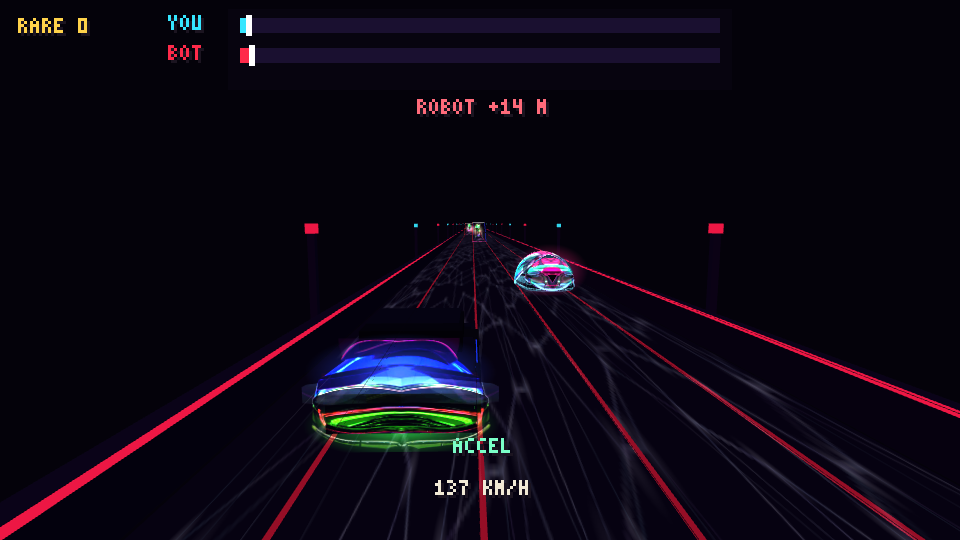
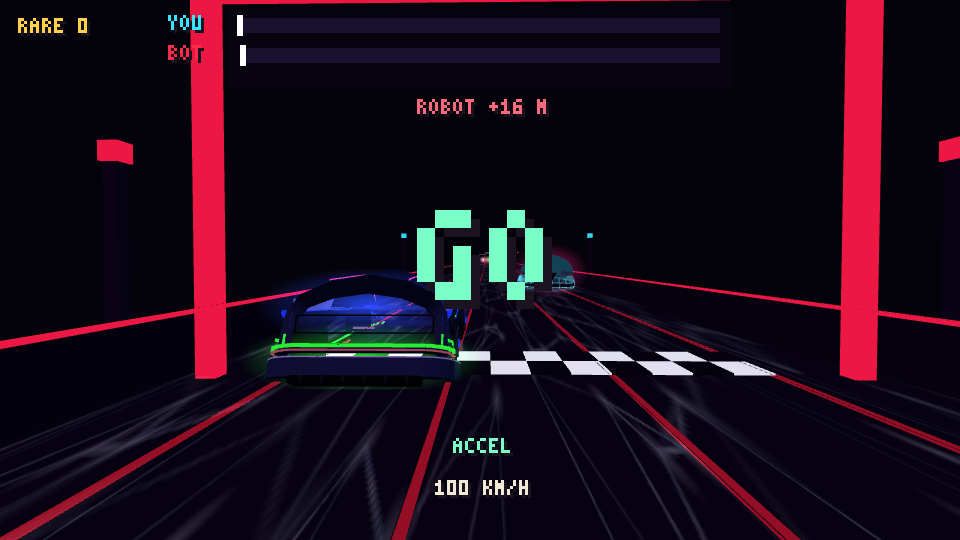
Race: faster cars, accelerator fix on phones, Porsche-like curved body for the player's car
- Race speeds 43 / 58 m/s (spirals scaled), accelerator +5 m/s, balance checked
  with tests/race_sim.js; the touch accelerator's outer edge (outside the
  screen canvas) now works in the race too.
- The player's race car: one smooth lofted shell (low nose, wings over the
  wheels, bonnet aligned with the blue line, rear haunches, one arc from
  flank to roof), wheels standing on the ground, side glass from the back
  picture with a slanted rear edge, matte black flank band, metal band under
  the cabin, pink roof moulding, the back picture tilted and wrapped onto
  the roof and corners, a wrap-around bumper, diffuser, boot lid, and a
  bulged wrap-around lamp bar whose red line lights up when braking.

diff --git a/src3d/car3d.js b/src3d/car3d.js
@@ -2,6 +2,11 @@
 // under the nose and a blue one under the tail, on a near-black ground). Never put on the road as a picture: built from boxes and cylinders with the shared Kit materials. The car faces -z (the way the runner runs),
 // 4 m long, 1.7 m wide, 1.35 m high, its wheels on y = 0. `Car3D.build(opts)` returns a Group; opts.body / opts.glowFront / opts.glowRear recolour it (the opponent car wears other colours).
 const Car3D = {
+  WR: 0.42,                              // the race car's wheel radius: the wheels stand ON the ground (Kit's cylinders are placed by their foot: the wheels used to float 17 cm up)
+  TAIL_TILT: 25 * Math.PI / 180,
+  TAIL_ROUND: 0.2,
+  TAIL_STRETCH: 1.16,
+  TAIL_SQUASH: 0.97,                       // and to 90 % of its height, so its rounded top meets the Porsche-like roof arc                    // the back picture is stretched this much in width (only), to cover the sides of the body                      // how much the end of the body draws in (a quarter circle over the last 10 %): the rounded edges onto the tail          // the back of the race car leans forward this much (its picture and the body behind it)
   parts(o) {
     o = Object.assign({ body: '#1c2468', roof: '#151c58', glass: '#0b1030', line: '#2a3cff', arch: '#35e6ff', head: '#ffe21a', tail: '#ff2a3a', glowFront: '#ff1a3a', glowRear: '#2a3cff' }, o || {});
     const p = [], W = 0.85, wheelZ = [-1.3, 1.25];
@@ -57,23 +62,108 @@ const Car3D = {
   // a wide low body in near-black blue, a blue band along the flanks at the height of the rear window, a green line low down continuing the light bar, dark wheels with a faint rim and a magenta glow underneath.
   // `backW` is how wide the body is (the picture is hung wider than that, because its own glow spreads beyond the car).
   fromBack(o) {
-    o = Object.assign({ body: '#090a16', dark: '#05060d', blue: '#1636ff', green: '#2bff3a', rim: '#1b2440' }, o || {});
-    const p = [], W = 2.3, L = 4.6, zT = 2.0, zN = zT - L;
-    p.push(Kit.box(W, 0.62, L, 0, 0.3, zT - L / 2, o.body));                                                                      // the tub
-    p.push(Kit.box(W - 0.12, 0.34, L * 0.42, 0, 0.9, zT - 1.1, o.body));                                                          // the shoulders behind the cabin
-    p.push(Kit.box(W - 0.5, 0.42, L * 0.36, 0, 1.2, zT - 1.9, o.dark));                                                           // the cabin
-    p.push(Kit.box(W - 0.62, 0.1, L * 0.3, 0, 1.6, zT - 2.0, o.body));                                                            // the roof
-    p.push(Kit.box(W - 0.2, 0.26, 1.0, 0, 0.72, zN + 0.5, o.body, { rx: -0.18 }));                                                 // the nose, sloping down
+    o = Object.assign({ body: '#1a2240', dark: '#04050b', blue: '#1636ff', green: '#2bff3a', rim: '#1b2440' }, o || {});        // (the body a dark slate blue: in the night race a near-black body hid its curves)
+    const p = [], W = 2.3, L = 5.0, zT = 2.0, zN = zT - L;                                                                         // (5 m: the user's retouched picture: a longer car; the tail stays where the back picture hangs)
+    // THE CURVED BODY (the user: a low, sculpted sports car, not boxes): one smooth shell lofted through cross-sections along the car (Car3D.shell): a low narrower nose, the body rising in a wedge
+    // toward the tail, flanks bulging out and tucked in at the foot, and the cabin a narrow smoked-glass greenhouse with a raked windscreen and a long fastback sloping down to the user's tail picture.
+    const S = Car3D.shell(o, W, L, zT); p.push(S.part);
     for (const s2 of [-1, 1]) {
-      p.push(Kit.box(0.05, 0.05, L - 1.4, s2 * W / 2, 0.86, zT - L / 2 - 0.1, o.blue, { glow: true }));                                  // the blue band of the back, carried along the flanks
-      p.push(Kit.box(0.05, 0.05, L - 1.2, s2 * (W / 2 - 0.02), 0.2, zT - L / 2 - 0.2, o.green, { glow: true }));                   // the green line of the light bar, carried low
-      for (const z of [zT - 1.0, zN + 1.2]) {                                                                                      // the wheels
-        p.push(Kit.cyl(0.44, 0.44, 0.34, s2 * (W / 2 - 0.1), 0.44, z, '#07080e', { rz: Math.PI / 2, seg: 14 }));
-        p.push(Kit.cyl(0.2, 0.2, 0.06, s2 * (W / 2 + 0.07), 0.44, z, o.rim, { rz: Math.PI / 2, seg: 10 }));
+      // the blue band of the back and the green line of its light bar, carried along the flanks: now following the curves (the belt line and the foot of the body)
+      for (const [line, col, dy, dx] of [[S.belt, o.blue, 0, 0.012], [S.foot, o.green, 0.06, 0.012]]) for (let i = 0; i < line.length - 1; i++) {
+        const [z0, y0, a0] = line[i], [z1, y1, a1] = line[i + 1], len = Math.hypot(z1 - z0, y1 - y0, a1 - a0);
+        p.push(Kit.box(0.03, 0.03, len + 0.06, s2 * ((a0 + a1) / 2 + dx),        /* (+6 cm of overlap: a continuous line on the curves, not dashes) */ (y0 + y1) / 2 + dy - 0.015, (z0 + z1) / 2, col, { rx: -Math.atan2(y1 - y0, z1 - z0), glow: true }));
       }
+      // (the gold trim along the roof was removed at the user's request: 'annule les traits dores')
+      // THE METAL BAND (the user raised the cabin by 20 cm and asked for a metal band to fill the gap): a brushed-metal strip 0.18 m tall along each side of the cabin, just above the belt line
+      for (let i = 0; i < S.belt.length - 1; i++) { const t0 = i / (S.belt.length - 1); if (t0 < 0.33 || t0 > 0.86) continue; const [z0, y0, a0] = S.belt[i], [z1, y1, a1] = S.belt[i + 1], len = Math.hypot(z1 - z0, y1 - y0);
+        p.push(Kit.box(0.03, 0.18, len + 0.04, s2 * ((a0 + a1) / 2 - 0.02), (y0 + y1) / 2 + 0.01, (z0 + z1) / 2, '#8d96ab', { rx: -Math.atan2(y1 - y0, z1 - z0) })); }
+      // THE PINK ROOF MOULDING (the user: the pink neon at the top of the back picture carried forward as a line, a moulding, that stops on reaching the windscreen): a thin lit pink line along the edge of
+      // the roof on each side, from the top of the windscreen to just before the rounded end, where the picture's own pink line takes over
+      for (let i = 0; i < S.side.length - 1; i++) { const ta = S.side[i].t, tb = S.side[i + 1].t; if (tb > 0.9) continue;     /* (from the foot of the windscreen pillar: 'continuer le rose') */ const a0 = S.side[i][s2 < 0 ? 'L' : 'R'][2], a1 = S.side[i + 1][s2 < 0 ? 'L' : 'R'][2], len = Math.hypot(a1[2] - a0[2], a1[1] - a0[1]);
+        p.push(Kit.box(0.016, 0.016, len + 0.01, (a0[0] + a1[0]) / 2 + s2 * 0.015, (a0[1] + a1[1]) / 2 + 0.008, (a0[2] + a1[2]) / 2, '#ff3fd0', { rx: -Math.atan2(a1[1] - a0[1], a1[2] - a0[2]), glow: true })); }
+      // THE MATTE BLACK FLANK PANEL (the user marked it on both side views): a band of matte black just under the belt line, from the middle of the car to the rear wheel, following the body's curve
+      for (let i = 0; i < S.belt.length - 1; i++) { const t0 = i / (S.belt.length - 1); if (t0 < 0.5 || t0 > 0.76) continue; const [z0, y0, a0] = S.belt[i], [z1, y1, a1] = S.belt[i + 1], len = Math.hypot(z1 - z0, y1 - y0);
+        p.push(Kit.box(0.03, 0.15, len + 0.01, s2 * ((a0 + a1) / 2 + 0.006), (y0 + y1) / 2 - 0.2, (z0 + z1) / 2, '#050507', { rx: -Math.atan2(y1 - y0, z1 - z0) })); }
+      for (const z of [zT - 1.0, zN + 1.2]) p.push(Kit.cyl(0.46, 0.46, 0.04, s2 * (S.half(z) + 0.005), Car3D.WR - 0.02, z, '#020204', { rz: Math.PI / 2, seg: 18 }));   // the dark wheel arch round each wheel
+      for (const z of [zT - 1.0, zN + 1.2]) { const hw = S.half(z);                                                              // the wheels (at the body's own width there: the rear haunches are wider)
+        p.push(Kit.cyl(Car3D.WR, Car3D.WR, 0.34, s2 * (hw - 0.1), Car3D.WR - 0.17, z, '#07080e', { rz: Math.PI / 2, seg: 14 }));
+        p.push(Kit.cyl(0.31, 0.31, 0.05, s2 * (hw + 0.07), Car3D.WR - 0.025, z, '#0d1220', { rz: Math.PI / 2, seg: 14 }));                // a bigger dark rim
+        for (let k = 0; k < 5; k++) { const a2 = k * Math.PI * 2 / 5; p.push(Kit.box(0.05, 0.3, 0.07, s2 * (hw + 0.1), Car3D.WR - 0.15 + Math.sin(a2) * 0.15, z + Math.cos(a2) * 0.15, o.rim, { rx: -a2 })); }   // its five spokes
+        p.push(Kit.cyl(0.07, 0.07, 0.06, s2 * (hw + 0.12), Car3D.WR - 0.03, z, o.blue, { rz: Math.PI / 2, seg: 8, glow: true }));        // the hub, lit
+      }
+      // THE FLANKS (the user, with a picture of a sports car seen from the side: 'fabriquer des flancs pareils'): modelled in the spirit of that silhouette, in this car's own colours, not copied from
+      // the picture: the long sculpted AIR INTAKE behind the door (a dark recess with a lit edge, rising toward the rear wheel), the BODY LINE that climbs from the front wheel to the top of the intake,
+      // the black SIDE SKIRT between the wheels, and the open VENT in front of the rear wheel.
+      const sx = s2 * (W / 2 + 0.012);
+      p.push(Kit.box(0.05, 0.34, 1.5, sx, 0.52, zT - 2.05, '#020205', { rx: 0.16 }));                                                // the intake: a dark recess, its rear end higher
+      p.push(Kit.box(0.055, 0.035, 1.55, s2 * (W / 2 + 0.02), 0.71, zT - 2.05, o.blue, { rx: 0.16, glow: true }));                  // its upper edge, lit
+      p.push(Kit.box(0.055, 0.03, 1.2, s2 * (W / 2 + 0.02), 0.36, zT - 2.2, '#2a3550', { rx: 0.06 }));                              // its lower lip
+      p.push(Kit.box(0.04, 0.03, 2.0, s2 * (W / 2 + 0.006), 0.66, zN + 1.55, '#2a3550', { rx: -0.1 }));                              // the body line, from the front wheel up to the intake
+      p.push(Kit.box(0.08, 0.12, L - 2.3, s2 * (W / 2 + 0.02), 0.08, zT - L / 2 - 0.1, '#03040a'));                                  // the side skirt
+      p.push(Kit.box(0.06, 0.24, 0.32, s2 * (W / 2 + 0.015), 0.62, zT - 1.62, '#010103'));                                           // the vent in front of the rear wheel
+      p.push(Kit.box(0.065, 0.02, 0.34, s2 * (W / 2 + 0.025), 0.75, zT - 1.62, o.green, { glow: true }));                            // its lit top
     }
     return p;
   },
-  buildFromBack(o) { return Kit.mesh(Kit.merge(Car3D.fromBack(o))); },
+  // the lofted shell of the race car: cross-sections every few centimetres from the nose (zT - L) to the tail (zT), each a profile from the left foot over the roof to the right foot. Returns the part
+  // (smooth normals, per-vertex colours: body, smoked glass on the greenhouse) and the belt and foot lines (z, y, half width) for the neon lines.
+  shell(o, W, L, zT) {
+    const NZ = 36, sm = (a, b, x) => { const t = Math.max(0, Math.min(1, (x - a) / (b - a))); return t * t * (3 - 2 * t); }, zN = zT - L;
+    // THE TAIL MEETS THE USER'S PICTURE OF THE BACK (the user: 'adapter les baguettes avec les baguettes, la vitre avec la vitre, le coffre avec le coffre'): measured on that picture as it hangs at the
+    // tail (2.95 m wide, from 0.06 to 1.79 m): its roof at 1.75 m, its rear window nearly vertical from 1.10 to 1.57 m, its belt line at 1.01 m, its boot 0.79 - 1.01 m, its lamp bar 0.44 - 0.72 m, and the
+    // car in it about 2.6 m wide. So at the tail the body widens into rear haunches (2.6 m), the belt (and the blue line) rises to 1.01 m, the cabin does not slope away but keeps its height to 1.74 m with
+    // its glass coming down VERTICAL onto the picture's window, and the green line climbs to the picture's green lamp bar.
+    const half = t => W / 2 * (0.8 + 0.2 * sm(0, 0.2, t)) + 0.15 * sm(0.74, 1, t);                         // narrower nose, wider rear haunches
+    // THE FRONT WING (the user: 'defaut de capote': the bonnet was 0.5 m high and the front wheel, 0.88 m tall, came through it): the belt swells into a rounded wing over the front wheel (centred at
+    // 1.2 m from the nose), so the bonnet covers it; the line runs on smoothly into the wedge behind.
+    const wingT = 1.2 / L, wing = t => 0.3 * Math.exp(-Math.pow((t - wingT) / 0.15, 2));      /* (broader and softer: 'capote pas exacte') */
+    const beltY0 = t => Math.max(0.48 + 0.53 * Math.pow(t, 0.75), 0.47 + wing(t)), wingTop = beltY0(wingT);
+    // (the user drew a straight line from the top of the front wheel down to the foot of the nose: ahead of the wheel the wing and the bonnet run straight down to 0.3 m at the nose, no flat plank)
+    const beltY = t => t >= wingT ? beltY0(t) : 0.3 + (wingTop - 0.3) * Math.pow(t / wingT, 0.85);                                                          // the wedge: low at the nose, rising to the picture's belt line (1.01 m)
+    // (the user, twice: 'comme une Porsche': one continuous arc: the roof peaks over the front seats and falls away in a smooth curve to the tail)
+    const roofY = t => { const up = sm(0.3, 0.5, t), arc = 1.45 - 0.05 * Math.pow(Math.max(0, (t - 0.52) / 0.48), 1.6);     /* (the front half of the roof lowered: the user saw it standing above the back from behind) */ return arc * up + (beltY(t) + 0.06) * (1 - up); };   // the raked windscreen, then the roof rising gently to the picture's (1.74 m)
+    const cabW0 = 0.74, cabW = cabW0;
+    const glass = new THREE.Color(o.dark), body = new THREE.Color(o.body), glassTint = new THREE.Color('#0a1430');
+    const pos = [], cols = [], belt = [], foot = [], NP = 13;
+    for (let i = 0; i <= NZ; i++) {
+      const t = i / NZ, z = zN + t * L, a = half(t), hb = beltY(t), hr = Math.max(roofY(t), hb + 0.06), k = sm(0.06, 0.32, hr - hb);   // k: how much of a cabin there is here
+      // ONE ARC FROM THE FLANK TO THE TOP (the user, on the back view: 'bombe pour atteindre le haut et le flanc, un arc parfait'): where there is a cabin, its side points sit on a quarter ellipse that
+      // starts at the belt on the flank itself (a * 0.94) and rises to the top of the roof, so there is no shoulder ledge: flank and roof are one vault, the same on both sides.
+      const cw = cabW0 + 0.14 * sm(0.7, 1, t), X0 = a * 0.94, Htop = hr + 0.07, arcP = phi => [X0 * Math.cos(phi), hb + (Htop - hb) * Math.sin(phi)];
+      const A1 = arcP(Math.PI / 6), A2 = arcP(Math.PI / 3);
+      const g1x = a * 0.78 * (1 - k) + A1[0] * k, g1y = (hb - 0.01) * (1 - k) + A1[1] * k;      /* (where there is no cabin, the bonnet sits LOWER than the wings, like a Porsche: the wings bulge either side of it) */
+      const g2x = a * 0.4 * (1 - k) + A2[0] * k, g2y = (hb - 0.05) * (1 - k) + A2[1] * k;      /* (a rounded roof seen from behind, like a Porsche: the edges of the roof lower, its middle higher) */
+      const side = [[a * 0.9, Math.min(0.12, hb * 0.3)], [a * 0.98, Math.min(0.28, hb * 0.6)], [a, Math.min(0.5, hb - 0.03)], [a * 0.94, hb], [g1x, g1y], [g2x, g2y]];      /* (the flank never stands above the belt: near the low nose it used to, above the blue line, 'le capot doit etre aligne avec le trait bleu') */
+      const prof = side.map(([x, y]) => [-x, y]).concat([[0, (hr + 0.07) * k + (hb - 0.05) * (1 - k) + 0.02]], side.slice().reverse());
+      // THE ROUNDED END (the user, twice: 'courbe', at the top edge between the roof and the tail picture, and at the lower corners between the flanks and it): over the last 14 % of the length the
+      // section draws in on a quarter circle, the sides inward and the roof down (toward a point low in the middle), so the body rolls onto the tail instead of ending in sharp edges.
+      const fu = Math.max(0, (t - 0.86) / 0.14, (0.07 - t) / 0.07), fil = 1 - Car3D.TAIL_ROUND * (1 - Math.sqrt(Math.max(0, 1 - fu * fu))), FY = 0.2;      /* (and the nose rounded the same way over its first 7 %: not a flat plank) */      /* (the user: 'complete la courbe jusqu'ici': the rounding reaches down the rear corner behind the wheel) */
+      const fx = x => x * fil, fyv = y => FY + (y - FY) * fil;
+      prof.forEach(([x0, y0], j) => { const x = fx(x0), y = fyv(y0); pos.push(x, y, z); const isGlass = (j === 4 || j === 5 || j === 6 || j === 7 || j === 8) && k > 0.5, c = isGlass ? glass.clone().lerp(glassTint, 0.35) : body; cols.push(c.r, c.g, c.b); });
+      belt.push([z, fyv(hb), fx(a * 0.97)]); const fy = 0.14 + 0.44 * sm(0.72, 1, t); foot.push([z, fyv(fy), fx(fy < 0.3 ? a * 0.93 : a * 0.99)]);       // (the green line climbs to the lamp bar at the tail)
+    }
+    // THE TAIL LEANS FORWARD (the user drew the roof curving down onto the back): the back picture is hung tilted by Car3D.TAIL_TILT about its foot, so nothing of the body may stand behind that slanted
+    // plane: every point above the picture's foot is pulled forward onto it. The roof then comes down onto the top of the picture, the flanks follow its slope, the lines stop on it.
+    const zMax = y => zT + 0.02 - Math.max(0, y - 0.06) * Math.tan(Car3D.TAIL_TILT);
+    for (let i = 0; i < pos.length; i += 3) pos[i + 2] = Math.min(pos[i + 2], zMax(pos[i + 1]) - 0.01);
+    for (const ln of [belt, foot]) for (const q of ln) q[0] = Math.min(q[0], zMax(q[1]) - 0.03);
+    // the cabin's SIDE WINDOWS (the user: copy the glass of the back picture onto the flanks, under the roof): for each section where there is a cabin, the side rows from the belt (3) through the
+    // window's foot (4) to the roof's edge (5), left (j) and right (NP - 1 - j), after the tail's slant. Race3D lays the picture's glass on them.
+    const side = [];
+    for (let i = 0; i <= NZ; i++) { const t = i / NZ; if (t < 0.34) continue;   /* (from the windscreen: the user's retouch shows the whole side of the cabin in the blue glass) */ const P = j => [pos[(i * NP + j) * 3], pos[(i * NP + j) * 3 + 1], pos[(i * NP + j) * 3 + 2]];
+      // (the user drew the glass's rear edge sweeping down to the corner of the lamp bar: toward the tail the foot of the side glass slides down from the belt toward the body's waist)
+      const dw = 0,                                                                                 /* (no longer lowered: the user wanted that part filled with the roof's body) */ low = (A, B) => [A[0] + (B[0] - A[0]) * dw, A[1] + (B[1] - A[1]) * dw, A[2] + (B[2] - A[2]) * dw];
+      side.push({ t, L: [low(P(3), P(2)), P(4), P(5)], R: [low(P(NP - 4), P(NP - 3)), P(NP - 5), P(NP - 6)] }); }
+    const idx = [];
+    for (let i = 0; i < NZ; i++) for (let j = 0; j < NP - 1; j++) { const A = i * NP + j, B = A + NP; idx.push(A, B, A + 1, A + 1, B, B + 1); }
+    for (const [i, flip] of [[0, true], [NZ, false]]) { const c0 = pos.length / 3; let cx = 0, cy = 0; for (let j = 0; j < NP; j++) { cx += pos[(i * NP + j) * 3]; cy += pos[(i * NP + j) * 3 + 1]; }
+      pos.push(cx / NP, cy / NP * 0.7, zN + (i ? L : 0)); cols.push(body.r, body.g, body.b);
+      for (let j = 0; j < NP - 1; j++) { const A = i * NP + j; if (flip) idx.push(c0, A + 1, A); else idx.push(c0, A, A + 1); }
+      const A0 = i * NP + NP - 1, A1 = i * NP; if (flip) idx.push(c0, A1, A0); else idx.push(c0, A0, A1); }          // (the bottom, closing the profile)
+    const g = new THREE.BufferGeometry(); g.setAttribute('position', new THREE.Float32BufferAttribute(pos, 3)); g.setAttribute('color', new THREE.Float32BufferAttribute(cols, 3)); g.setIndex(idx);
+    g.computeVertexNormals(); const ng = g.toNonIndexed(); g.dispose();
+    const S = { part: { geo: ng, color: o.body, cols: ng.attributes.color.array }, belt, foot, side, half: z => half((z - zN) / L) }; Car3D.lastShell = S; return S;
+  },
+  buildFromBack(o) {   /* (see shell and Race3D: the back picture hangs tilted by TAIL_TILT) */ return Kit.mesh(Kit.merge(Car3D.fromBack(o))); },
   build(o) { return Kit.mesh(Kit.merge(Car3D.parts(o))); },
 };

diff --git a/src3d/race3d.js b/src3d/race3d.js
@@ -35,7 +35,19 @@ class Race3D {
     // it; only that one piece, at the user's request. The modelled car (src3d/car3d.js, whose back is built from the user's material picture) is kept for the renders in docs/race.
     // THE PLAYER'S CAR is GENERATED FROM THE USER'S PICTURE OF ITS BACK: the picture is the tail, hung as it is (never redrawn), and the body in front of it is modelled from what it shows (Car3D.fromBack).
     this.car = Car3D.buildFromBack();
-    { const w = 2.95, h = w / RACE_ASSETS.ar.carBack, m = new THREE.Mesh(this.plane(w, h), this.backMat); m.position.set(0, h / 2 + 0.06, 2.02); this.car.add(m); this.car.userData.pic = m;
+    // (the user, on the top edge of the back picture: 'courbe': its top quarter is BENT FORWARD on a 0.45 m radius, so the picture rolls over onto the roof instead of ending in a straight edge)
+    // (and then on its upper corners: its left and right edges fold forward too, strongly at the top and not at all below the belt, so the picture is a cushion wrapping the corner of the body)
+    const bentPic = (w, h) => { const g = new THREE.PlaneGeometry(w, h, 24, 24), P = g.attributes.position, cut = 0.72, R = 0.45, cx = 0.62, Rs = 0.42, sm = (a, b, x) => { const t = Math.max(0, Math.min(1, (x - a) / (b - a))); return t * t * (3 - 2 * t); };
+      for (let i = 0; i < P.count; i++) { let x = P.getX(i), y = P.getY(i), z = 0; const yy = (y + h / 2) / h;
+        const dx = Math.abs(x) - cx * w / 2, k = sm(0.38, 0.78, yy); if (dx > 0 && k > 0) { const th = Math.min(dx / Rs, Math.PI / 2) * k; x = Math.sign(x) * (cx * w / 2 + Rs * Math.sin(th) / Math.max(k, 1e-3) * k + dx * (1 - k) * 0); x = Math.sign(P.getX(i)) * (cx * w / 2 + (Rs * Math.sin(th) * k + dx * (1 - k))); z -= Rs * (1 - Math.cos(th)); }
+        const d = (y + h / 2) - cut * h; if (d > 0) { const th = Math.min(d / R, Math.PI / 2); y = -h / 2 + cut * h + R * Math.sin(th); z -= R * (1 - Math.cos(th)); }
+        P.setXYZ(i, x, y, z); }
+      // (the user: 'supprimer debris transparent': the grey side pieces of the picture, at the belt, stood out past the body once wrapped: the outer strip of the picture is left out there)
+      const U = g.attributes.uv, I = g.index.array, keep = [];
+      for (let f = 0; f < I.length; f += 3) { let u = 0, v = 0; for (let k = 0; k < 3; k++) { u += U.getX(I[f + k]) / 3; v += U.getY(I[f + k]) / 3; } const e = Math.abs(u - 0.5), vt = 1 - v;
+        if (e > 0.458 || (e > 0.39 && vt < 0.62)) continue;            /* (and the whole upper part of that strip, the same on both sides: 'symetrie logique') */ keep.push(I[f], I[f + 1], I[f + 2]); }
+      g.setIndex(keep); g.computeVertexNormals(); return g; };
+    { const w = 2.95, h = w / RACE_ASSETS.ar.carBack, m = new THREE.Mesh(bentPic(w, h), this.backMat); m.position.set(0, h / 2 + 0.06, 2.02); this.car.add(m); this.car.userData.pic = m;
       // the neon of the back LIT: the picture is drawn three times over itself (additive, so every lit line adds up) over a green and a magenta halo, and the whole thing flares on the beat
       for (const dz of [0.005, 0.01]) { const m2 = m.clone(); m2.position.z += dz; this.car.add(m2); }
       // THE BRAKE LIGHTS: red glows across the lamp bar at the foot of the tail (a wide band and a lamp at each end), invisible until the car brakes (the brake pedal or a brake ring). (A red copy of
@@ -47,6 +59,54 @@ class Race3D {
       const hG = new THREE.Mesh(this.plane(w * 1.15, h * 0.7), this.backGlowG); hG.position.set(0, 0.42, 1.99); this.car.add(hG);
       const hM = new THREE.Mesh(this.plane(w * 1.1, h * 0.8), this.backGlowM); hM.position.set(0, h * 0.72, 1.985); this.car.add(hM);
       this.car.userData.halo = [hG, hM];
+      // THE BACK LEANS FORWARD (the user drew the roof curving down onto it): the picture, its two copies, the brake lights and the halos turn together about the picture's foot by Car3D.TAIL_TILT, the
+      // top toward the front (the body is shaped to that slant: Car3D.shell); the window keeps a little of its upright look.
+      { const piv = new THREE.Group(); piv.position.set(0, 0.06, 2.02); piv.rotation.x = -Car3D.TAIL_TILT; piv.scale.x = Car3D.TAIL_STRETCH; piv.scale.y = Car3D.TAIL_SQUASH; this.car.add(piv);      /* (stretched a little in width: the user wanted the picture to cover the body's sides at the belt) */
+        for (const c of this.car.children.filter(c => c.material === this.backMat || c === this.car.userData.brakeLight || c === hG || c === hM)) { c.position.y -= 0.06; c.position.z -= 2.02; piv.add(c); }
+        // THE REAR PARTS (the user: 'faire apparaitre le coffre, le pare-chocs arriere, les baguettes, chacun a sa dimension logique, comme l'arriere d'une Porsche coupe', 'pas de coin'): real pieces on the
+        // tilted back, in the picture's frame (y from its foot, +z out of it): a full-width BUMPER 0.26 m tall standing 0.17 m out, with rounded ends (no corners) and a chrome strip on top; a black
+        // DIFFUSER with fins under it; the BOOT LID outlined by thin shut lines above the lamp bar (1.7 x 0.27 m) with a small chrome handle. Lit like the body, nothing glows.
+        { const rp = [], rpRed = [], BW = 2.3, body = '#1a2240', chrome = '#b9c3d6', black = '#05060a';
+          // the bumper WRAPS ROUND THE CORNERS (the user: 'adapter le pare-chocs avec la courbure du coin jusqu'aux roues'): seen from above it runs straight across the middle, turns on a 0.4 m
+          // radius at each corner and runs forward along the flanks toward the rear wheels; the chrome strip follows it
+          { const path = [], XS = 0.76, R = 0.3, XE = XS + R, ZF = -0.24;      /* (XE about the body's half width at the tail: the bumper hugs the flanks) */
+            for (let k = 0; k <= 4; k++) path.push([-XS + (2 * XS) * k / 4, 0.07]);
+            const arc = sx => { const pts = []; for (let k = 1; k <= 6; k++) { const a2 = (k / 6) * Math.PI / 2; pts.push([sx * (XS + R * Math.sin(a2)), 0.07 - R * (1 - Math.cos(a2))]); } pts.push([sx * XE, ZF]); return pts; };
+            const right = arc(1), left = arc(-1).reverse(), all = left.concat(path, right);
+            for (let k = 0; k < all.length - 1; k++) { const [x0, z0] = all[k], [x1, z1] = all[k + 1], len = Math.hypot(x1 - x0, z1 - z0); if (len < 1e-3) continue; const ry = Math.atan2(-(z1 - z0), x1 - x0);
+              rp.push(Kit.box(len + 0.03, 0.26, 0.22, (x0 + x1) / 2, 0.06, (z0 + z1) / 2, body, { ry }));                              // the bumper
+              rp.push(Kit.box(len + 0.03, 0.018, 0.235, (x0 + x1) / 2, 0.32, (z0 + z1) / 2, chrome, { ry }));                          // the chrome strip on it
+              // THE LAMP BAR wraps the same way (the user: 'meme chose que le pare-chocs'): a lit green band and a thin red line above the bumper, along the same path, round the corners to the sides
+              // (a little MORE bulged than the bumper, the user: pushed 0.13 m outward along the path, so the brake light and the neon stay visible from behind; in the corners it turns back in, about 24 degrees, and meets
+              // the bumper's end by the wheel: the user circled the corner piece that stood off on its own)
+              const nx = -(z1 - z0) / len, nz = (x1 - x0) / len, inC = Math.max(Math.abs(x0), Math.abs(x1)) > XS + 0.01 ? Math.min(1, (Math.abs((x0 + x1) / 2) - XS) / R * 0.5 + Math.max(0, -((z0 + z1) / 2) - 0.0) / 0.4) : 0, OUT = 0.13 * (1 - Math.min(1, inC)), mx = (x0 + x1) / 2 + nx * OUT, mz = (z0 + z1) / 2 + nz * OUT;
+              rp.push(Kit.box(len + 0.06, 0.045, 0.07, mx, 0.46, mz, '#2bff3a', { ry, glow: true }));
+              rpRed.push(Kit.box(len + 0.06, 0.018, 0.07, mx, 0.41, mz, '#ff2a3a', { ry, glow: true }));                                  // the red line: its own material, it lights up when braking
+              rp.push(Kit.box(len + 0.06, 0.12, 0.1, (x0 + x1) / 2 + nx * (OUT - 0.06), 0.4, (z0 + z1) / 2 + nz * (OUT - 0.06), body, { ry })); }   // the body under it, bulging out to carry it
+            for (const sx of [-1, 1]) rp.push(Kit.ico(0.13, sx * XE, 0.19, ZF, body, { detail: 2 })); }                                 // its rounded ends, by the wheels
+          rp.push(Kit.box(1.5, 0.1, 0.32, 0, -0.04, 0.1, black));                                                                       // the diffuser
+          for (let k = 0; k < 6; k++) rp.push(Kit.box(0.025, 0.1, 0.33, -0.6 + k * 0.24, -0.04, 0.1, '#14161f'));                        // its fins
+          const bx = 0.85, by0 = 0.71, by1 = 0.98, ln = (w2, h2, x, y) => rp.push(Kit.box(w2, h2, 0.02, x, y, 0.012, black));
+          ln(2 * bx, 0.016, 0, by0); ln(2 * bx, 0.016, 0, by1); for (const sx of [-1, 1]) ln(0.016, by1 - by0, sx * bx, by0);           // the boot lid's shut lines
+          rp.push(Kit.box(0.26, 0.035, 0.03, 0, by0 + 0.06, 0.02, chrome));                                                           // its handle
+          const rm = Kit.mesh(Kit.merge(rp)); rm.name = 'rearParts'; piv.add(rm); this.car.userData.rearParts = rm;
+          // THE RED LINE IS A BRAKE LIGHT (the user: 'lisere'): dark red at rest, full red when braking, with the brake lights (draw(): carBrakeK)
+          const rg = Kit.merge(rpRed).glow; this.brakeStripMat = new THREE.MeshBasicMaterial({ color: new THREE.Color('#ff2a3a').multiplyScalar(0.35), fog: false });
+          const rs = new THREE.Mesh(rg, this.brakeStripMat); rs.name = 'brakeStrip'; piv.add(rs); this.car.userData.brakeStrip = rs; }
+        this.car.userData.tail = piv; }
+      // THE SIDE WINDOWS WEAR THE BACK PICTURE'S GLASS (the user circled the blue window of the tail picture, then the cabin's side: copy it there): the same picture, its glass band (rows 13 - 40 % from
+      // the top, the left part of it), laid along each side of the cabin from the middle of the car to the slanted tail, mirrored on the right so it runs the same way; a little off the body.
+      { const S = Car3D.lastShell, U0 = 0.24, U1 = 0.5, V0 = 0.62, V1 = 0.85, pos = [], uv = [], idx = [];
+        if (S && S.side.length > 1) { const n = S.side.length;
+          for (const [sideKey, flip] of [['L', false], ['R', true]]) { const base = pos.length / 3;
+            S.side.forEach((sec, i) => { const f = i / (n - 1), u = flip ? U1 - (U1 - U0) * f : U0 + (U1 - U0) * f;
+              sec[sideKey].forEach((q, r) => { pos.push(q[0] + Math.sign(q[0]) * 0.012, q[1], q[2]); uv.push(u, V0 + (V1 - V0) * (r / 2)); }); });
+            for (let i = 0; i < n - 1; i++) for (let r = 0; r < 2; r++) { if (S.side[i + 1].t > (r === 0 ? 0.6 : 0.78)) continue;      /* (the window ends like a Porsche's: its rear edge slanted, further back at the top than at the belt; the body's dark pillar behind) */
+              const A = base + i * 3 + r, B = A + 3; if (flip) idx.push(A, A + 1, B, A + 1, B + 1, B); else idx.push(A, B, A + 1, A + 1, B, B + 1); } }
+          const gg = new THREE.BufferGeometry(); gg.setAttribute('position', new THREE.Float32BufferAttribute(pos, 3)); gg.setAttribute('uv', new THREE.Float32BufferAttribute(uv, 2)); gg.setIndex(idx); gg.computeVertexNormals();
+          const src = this.backMat.map, gt = src.clone(); gt.needsUpdate = true; const im = src.image; if (im && im.addEventListener) im.addEventListener('load', () => { gt.needsUpdate = true; });
+          this.sideGlassMat = new THREE.MeshBasicMaterial({ map: gt, side: THREE.DoubleSide, fog: false });
+          const sg = new THREE.Mesh(gg, this.sideGlassMat); sg.name = 'sideGlass'; this.car.add(sg); this.car.userData.sideGlass = sg; } }
       const gl = new THREE.Mesh(this.plane(w * 0.7, w * 0.9), this.carGlow); gl.rotation.x = -Math.PI / 2; gl.position.set(0, 0.015, 0.2); this.car.add(gl); }
     sc.add(this.car);
     // THE ROBOT'S CAR, in 3D from the user's own pictures: its head-on view at the back and at the front of the pod, and its SIDE view on both flanks (mirrored on the far one). Each picture is drawn once
@@ -312,6 +372,7 @@ class Race3D {
     // the player's brake lights (the pedal or a ring)
     { const dtc = this._ct === undefined ? 0 : t - this._ct; this._ct = t; const want = p.pedal === 'brake' || p.brakeT > 0 ? 1 : 0;
       this.carBrakeK += (want - this.carBrakeK) * Math.min(1, dtc / (want > this.carBrakeK ? 0.06 : 0.25));
+      if (this.brakeStripMat) this.brakeStripMat.color.setRGB(1, 0.16, 0.23).multiplyScalar(0.35 + 1.25 * this.carBrakeK);
       if (this.brakeLightMat) { this.brakeLightMat.opacity = this.carBrakeK; this.car.userData.brakeLight.visible = this.carBrakeK > 0.01; } }
     // the neon of the back: dim, and bright while the robot brakes (its pace drops faster than 1 m/s per second)
     { const dtn = this._nt === undefined ? 0 : t - this._nt; this._nt = t; const v = R.bot.speed, dec = dtn > 0 && this._nv !== undefined ? (this._nv - v) / dtn : 0; this._nv = v;

diff --git a/src/race.js b/src/race.js
@@ -3,11 +3,11 @@
 // DROIDS must be avoided (change lane) or jumped over from a RAMP; two RARE TOKENS lie on the track (the counter is kept between runs). Losing ends the race at once (the robot crossed first).
 // Units: metres and seconds along the track `s`; lanes -1, 0, 1 (LANE_M apart). Every number a test or the renderer needs is a field of the Race.
 const RACE = {
-  LEN: 2600, LANE_M: 2.4, BASE: 34, BOT: 47, ACCEL: 40,                         // BASE: the car's own pace (m/s); BOT: the robot's pace
-  SPIRAL: [{ name: 'RED', add: 20 }, { name: 'PURPLE', add: 14 }, { name: 'GREEN', add: 9 }, { name: 'LIME', add: 5 }],      // the speed each colour adds (m/s) while it lasts
+  LEN: 2600, LANE_M: 2.4, BASE: 43, BOT: 58, ACCEL: 40,                         // BASE: the car's own pace (m/s); BOT: the robot's pace
+  SPIRAL: [{ name: 'RED', add: 25 }, { name: 'PURPLE', add: 17 }, { name: 'GREEN', add: 11 }, { name: 'LIME', add: 6 }],      // the speed each colour adds (m/s) while it lasts
   SPIRAL_T: 3.2, BRAKE_MUL: 0.55, BRAKE_T: 2.0, HIT_MUL: 0.3, HIT_T: 0.9, JUMP_T: 1.1,
   LAST: 0.75,     /* where the run-in starts (the last quarter: more spirals, the strong colours, fewer traps, so the player can still take the robot) */
-  THROTTLE: 4, PEDAL_MUL: 0.5,   /* the PEDALS (the user: 'boutons accelerer, freiner'): accelerating while held adds THROTTLE m/s to the car's pace (4, not more: measured by tests/race_sim.js, at 7 a player who only holds the accelerator in one lane won half the races, at 4 about one in eight; the spirals stay the way to win), braking while held halves it */
+  THROTTLE: 5, PEDAL_MUL: 0.5,   /* the PEDALS (the user: 'boutons accelerer, freiner'): accelerating while held adds THROTTLE m/s to the car's pace (the user asked for both cars faster: 43 / 58 m/s, the spirals scaled with them; 5, not more: measured by tests/race_sim.js, a player who only holds the accelerator in one lane wins about one race in six, an attentive one 85 % without it and all with it; the spirals stay the way to win), braking while held halves it */
   DROID_V: 12, DROID_TRIGGER: 50, RAMP_BEFORE: 30, BUMP_MUL: 0.6, BUMP_T: 0.9, BUMP_GAP: 4.4,          /* running into the back of the robot's car: it is an obstacle like any other, the player is slowed and held behind it */
 };
 class Race {

diff --git a/tests/qa3d_race.js b/tests/qa3d_race.js
@@ -39,7 +39,9 @@ const res = []; const T = (n, ok, i = '') => { res.push(ok); console.log((ok ? '
     const best = () => { const p = R.p, sc = [0, 0, 0]; for (const it of R.items) { if (it.taken || it.hit) continue; const d = it.s - p.s; if (d < -1 || d > 55) continue; const L = it.lane + 1, k = 1 - d / 77; if (it.type === 'spiral') sc[L] += RACE.SPIRAL[it.color].add * 2.2 * k; else if (it.type === 'ring') sc[L] -= 60 * k; else if (it.type === 'rare') sc[L] += 12 * k; else if (it.type === 'ramp') sc[L] += 25 * k; else if (it.type === 'droid') { const ramp = R.items.some(q => q.type === 'ramp' && !q.taken && q.lane === it.lane && q.s < it.s && q.s > it.s - 40); sc[L] -= (ramp ? 4 : 55) * k; } }
       const bd = R.bot.s - p.s; if (bd > 0 && bd < 30) sc[Math.max(-1, Math.min(1, Math.round(R.bot.x / RACE.LANE_M))) + 1] -= 90;
       let b = lane + 1, bs = -1e9; for (let L = 0; L < 3; L++) { const v = sc[L] - Math.abs(L - (lane + 1)) * 2.5; if (v > bs) { bs = v; b = L; } } return b - 1; };
+    g.keys.up = true;                                                                                     // a good player holds the accelerator (the race pedals: tests/race_sim.js, all races won with it)
     while (g.state === 'race' && n++ < 20000) { if (g.race.cd <= 0 && !g.race.done) { const want = best(); g.laneQ = Math.sign(want - g.race.p.lane); g.advance(1 / 60); lane = g.race.p.lane; g.advance(1 / 60); } else g.advance(1 / 60); }
+    g.keys.up = false;
     return { res: R0.result, t: +R0.t.toFixed(1), s: Math.round(R0.p.s), state: g.state, race: !!g.race, coins: g.coins - coins0, rare: g.rare, saved: localStorage.getItem('wf.rare'), got: R0.p.rare, bot: Math.round(R0.bot.s) }; });
   T('a good player wins (' + W.res + ' in ' + W.t + ' s, the robot at ' + W.bot + ' m), is paid a bonus (+' + W.coins + ' coins), the rare tokens it took are kept on the device (' + W.got + ' taken, ' + W.rare + ' counted, saved ' + W.saved + '), and goes back on the road (' + W.state + ')',
     W.res === 'win' && W.coins >= 30 && W.state === 'play' && !W.race && W.rare === W.got && String(W.rare) === W.saved, JSON.stringify(W));

diff --git a/src3d/kit.js b/src3d/kit.js
@@ -92,7 +92,8 @@ const Kit = {
       for (const p of list) {
         const P = p.geo.attributes.position.array, N = p.geo.attributes.normal.array, k = P.length;
         pos.set(P, o); nor.set(N, o); c.set(p.color);
-        if (p.grad) {                                                        // optional vertical gradient: p.color at the top of the part, p.grad at its bottom, t^gradPow as the blend
+        if (p.cols) col.set(p.cols, o);                                      // optional per-vertex colours supplied by the part (Car3D's curved shell: body and glass on one surface)
+        else if (p.grad) {                                                        // optional vertical gradient: p.color at the top of the part, p.grad at its bottom, t^gradPow as the blend
           let y0 = Infinity, y1 = -Infinity; for (let i = 1; i < k; i += 3) { if (P[i] < y0) y0 = P[i]; if (P[i] > y1) y1 = P[i]; }
           const c2 = new THREE.Color(p.grad), span = Math.max(1e-6, y1 - y0), gp = p.gradPow || 1;
           for (let i = 0; i < k; i += 3) { const t = Math.pow((P[i + 1] - y0) / span, gp); col[o + i] = c2.r + (c.r - c2.r) * t; col[o + i + 1] = c2.g + (c.g - c2.g) * t; col[o + i + 2] = c2.b + (c.b - c2.b) * t; }

diff --git a/src/game.js b/src/game.js
@@ -50,7 +50,7 @@ class Game {
     const zone = () => TOUCH.find(c => (c.id !== 'scooter' || this.riding) && this.mouse.x >= c.x && this.mouse.x <= c.x + c.w && this.mouse.y >= c.y && this.mouse.y <= c.y + c.h);
     const overHint = () => { const h = this.scooterHint, m = this.mouse; return !!h && !this.riding && Math.abs(m.x - h.x) <= 14 + Math.min(36, h.rx * 1.4) + 24 && m.y >= h.y - 80 && m.y <= h.y + h.ry * 1.6 + 36; };      // the ring under a parked scooter and the scooter above it, with a very generous touch area (it passes at running speed)
     addEventListener('pointerdown', e => {
-      if (e.target !== cv && !(this.state === 'play' && e.pointerType === 'touch')) return;
+      if (e.target !== cv && !((this.state === 'play' || this.state === 'race') && e.pointerType === 'touch')) return;      // (the touch buttons stand partly outside the screen canvas: in the race too, or the accelerator's outer edge did nothing)
       at(e); this.mouse.down = true;
       if (e.pointerType === 'touch') this.touch = true;
       const c = (this.state === 'play' || this.state === 'race') && this.touch && zone();
